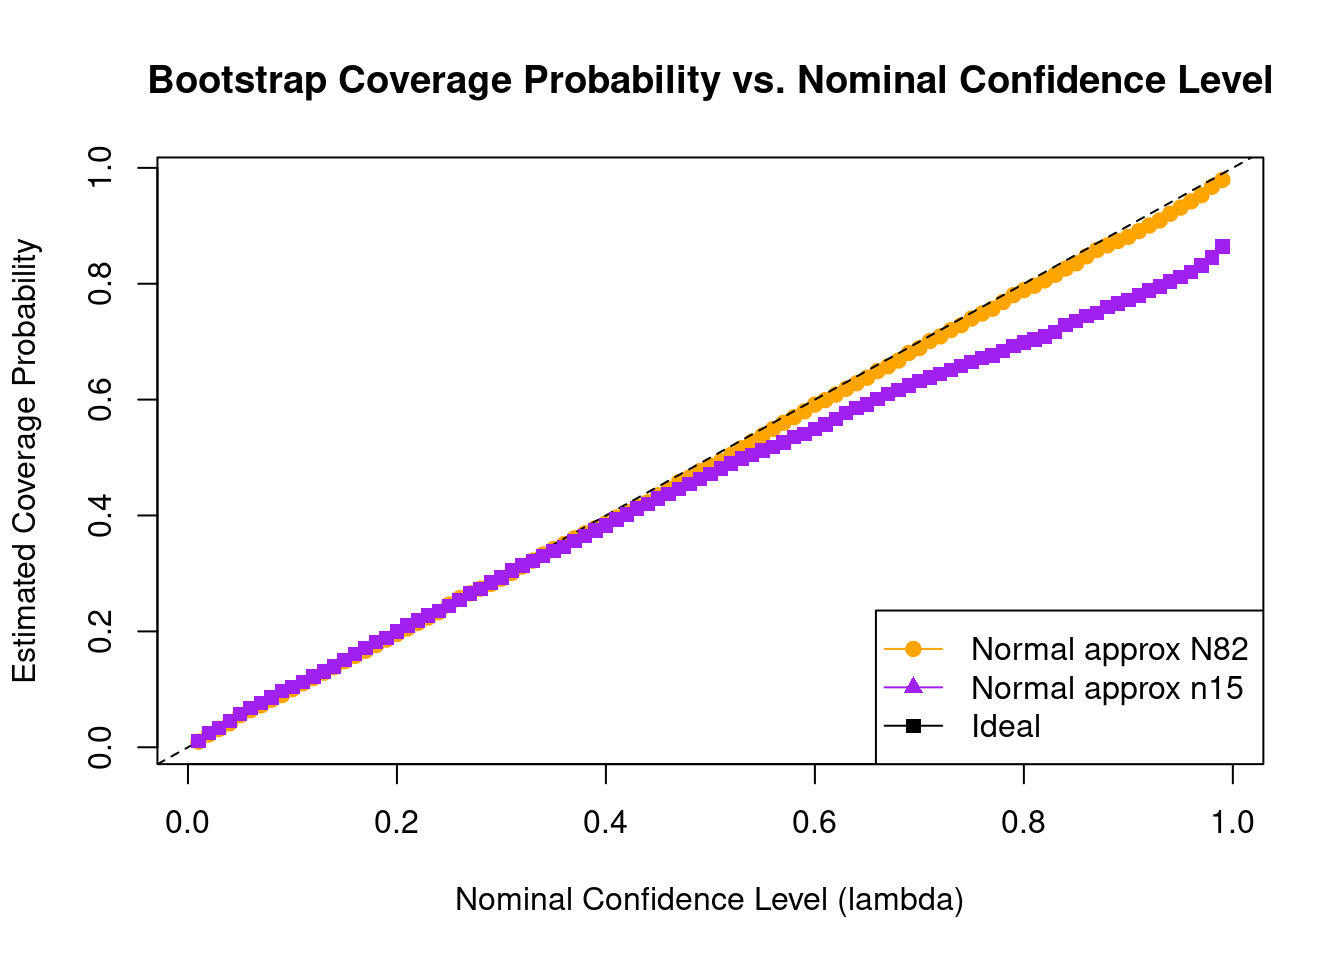
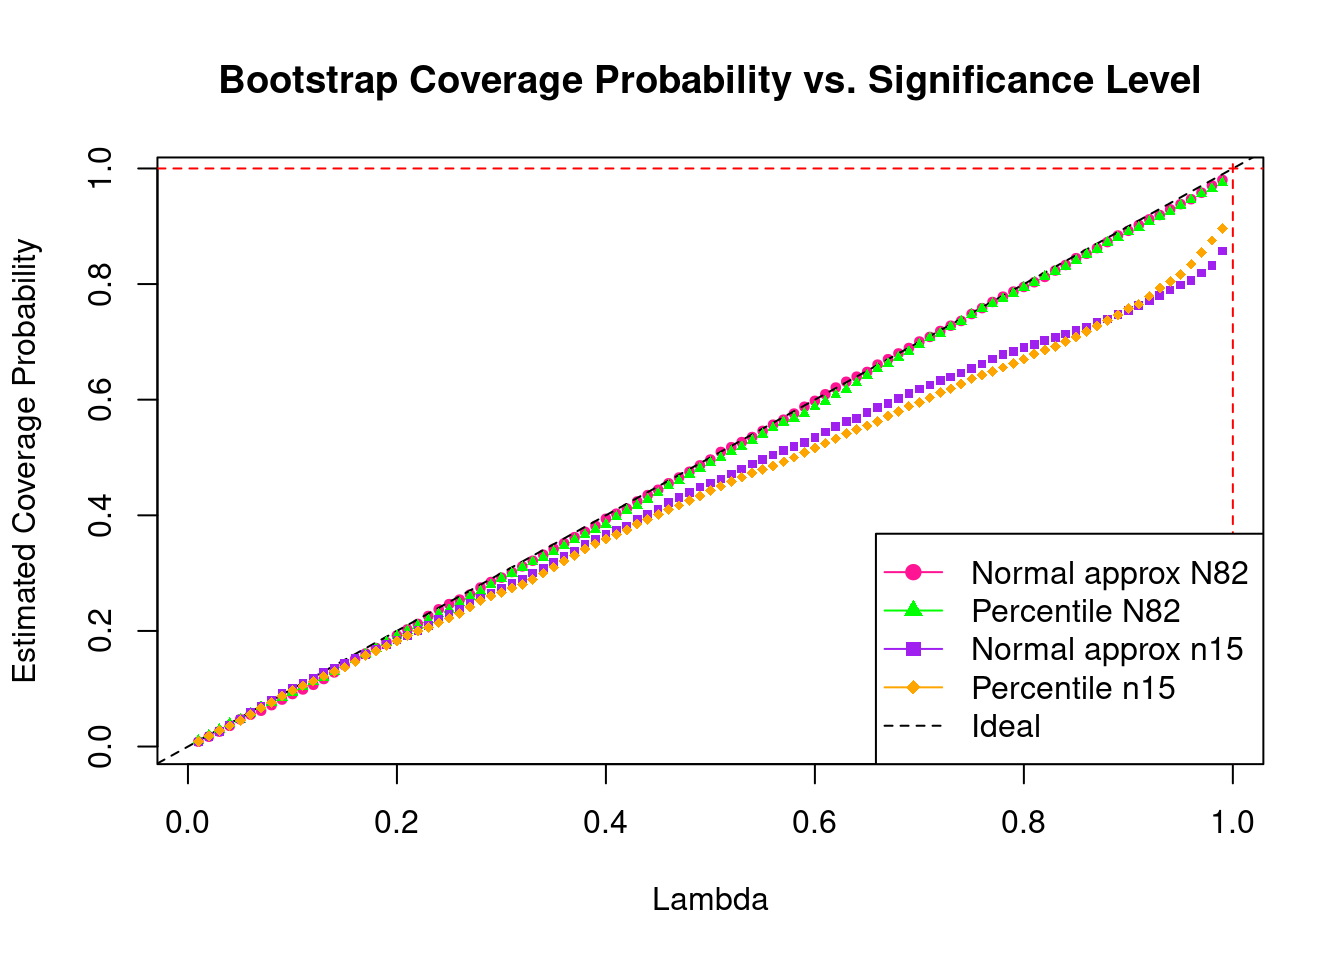
Deploy new Quarto site

diff --git a/docs/initial_notes.html b/docs/initial_notes.html
@@ -887,13 +887,13 @@ Copyright M. P. Wand 1997-2009</code></pre>
 <span id="cb43-43"><a href="#cb43-43" aria-hidden="true" tabindex="-1"></a>  upper_lambda <span class="ot">&lt;-</span> b1_correl[b1] <span class="sc">+</span> <span class="fu">qnorm</span>(<span class="dv">1</span> <span class="sc">-</span> lambdas <span class="sc">/</span> <span class="dv">2</span>) <span class="sc">*</span> se_b2</span>
 <span id="cb43-44"><a href="#cb43-44" aria-hidden="true" tabindex="-1"></a>  b1_lambda[b1, ] <span class="ot">&lt;-</span> <span class="fu">as.numeric</span>(sample_correl <span class="sc">&gt;=</span> lower_lambda <span class="sc">&amp;</span> sample_correl <span class="sc">&lt;=</span> upper_lambda)</span>
 <span id="cb43-45"><a href="#cb43-45" aria-hidden="true" tabindex="-1"></a></span>
-<span id="cb43-46"><a href="#cb43-46" aria-hidden="true" tabindex="-1"></a>  <span class="co"># lower_percentile &lt;- quantile(b2_correl, probs = lambdas / 2)</span></span>
-<span id="cb43-47"><a href="#cb43-47" aria-hidden="true" tabindex="-1"></a>  <span class="co"># upper_percentile &lt;- quantile(b2_correl, probs = 1 - lambdas / 2)</span></span>
-<span id="cb43-48"><a href="#cb43-48" aria-hidden="true" tabindex="-1"></a>  <span class="co"># b1_percentile[b1, ] &lt;- as.numeric(sample_correl &gt;= lower_percentile &amp; sample_correl &lt;= upper_percentile)</span></span>
+<span id="cb43-46"><a href="#cb43-46" aria-hidden="true" tabindex="-1"></a>  lower_percentile <span class="ot">&lt;-</span> <span class="fu">quantile</span>(b2_correl, <span class="at">probs =</span> lambdas <span class="sc">/</span> <span class="dv">2</span>)</span>
+<span id="cb43-47"><a href="#cb43-47" aria-hidden="true" tabindex="-1"></a>  upper_percentile <span class="ot">&lt;-</span> <span class="fu">quantile</span>(b2_correl, <span class="at">probs =</span> <span class="dv">1</span> <span class="sc">-</span> lambdas <span class="sc">/</span> <span class="dv">2</span>)</span>
+<span id="cb43-48"><a href="#cb43-48" aria-hidden="true" tabindex="-1"></a>  b1_percentile[b1, ] <span class="ot">&lt;-</span> <span class="fu">as.numeric</span>(sample_correl <span class="sc">&gt;=</span> lower_percentile <span class="sc">&amp;</span> sample_correl <span class="sc">&lt;=</span> upper_percentile)</span>
 <span id="cb43-49"><a href="#cb43-49" aria-hidden="true" tabindex="-1"></a>}</span>
-<span id="cb43-50"><a href="#cb43-50" aria-hidden="true" tabindex="-1"></a>lower_percentile2 <span class="ot">&lt;-</span> <span class="fu">quantile</span>(b1_correl, <span class="at">probs =</span> lambdas <span class="sc">/</span> <span class="dv">2</span>)</span>
-<span id="cb43-51"><a href="#cb43-51" aria-hidden="true" tabindex="-1"></a>upper_percentile2 <span class="ot">&lt;-</span> <span class="fu">quantile</span>(b1_correl, <span class="at">probs =</span> <span class="dv">1</span> <span class="sc">-</span> lambdas <span class="sc">/</span> <span class="dv">2</span>)</span>
-<span id="cb43-52"><a href="#cb43-52" aria-hidden="true" tabindex="-1"></a>b1_percentile[b1, ] <span class="ot">&lt;-</span> <span class="fu">as.numeric</span>(sample_correl <span class="sc">&gt;=</span> lower_percentile2 <span class="sc">&amp;</span> sample_correl <span class="sc">&lt;=</span> upper_percentile2)</span></code><button title="Copy to Clipboard" class="code-copy-button"><i class="bi"></i></button></pre></div>
+<span id="cb43-50"><a href="#cb43-50" aria-hidden="true" tabindex="-1"></a><span class="co"># lower_percentile2 &lt;- quantile(b1_correl, probs = lambdas / 2)</span></span>
+<span id="cb43-51"><a href="#cb43-51" aria-hidden="true" tabindex="-1"></a><span class="co"># upper_percentile2 &lt;- quantile(b1_correl, probs = 1 - lambdas / 2)</span></span>
+<span id="cb43-52"><a href="#cb43-52" aria-hidden="true" tabindex="-1"></a><span class="co"># b1_percentile[b1, ] &lt;- as.numeric(sample_correl &gt;= lower_percentile2 &amp; sample_correl &lt;= upper_percentile2)</span></span></code><button title="Copy to Clipboard" class="code-copy-button"><i class="bi"></i></button></pre></div>
 </div>
 <div class="cell">
 <div class="sourceCode cell-code" id="cb44"><pre class="sourceCode r code-with-copy"><code class="sourceCode r"><span id="cb44-1"><a href="#cb44-1" aria-hidden="true" tabindex="-1"></a><span class="co"># lower_percentile2 &lt;- quantile(b1_correl, probs = lambdas / 2)</span></span>
@@ -903,35 +903,37 @@ Copyright M. P. Wand 1997-2009</code></pre>
 <div class="cell">
 <div class="sourceCode cell-code" id="cb45"><pre class="sourceCode r code-with-copy"><code class="sourceCode r"><span id="cb45-1"><a href="#cb45-1" aria-hidden="true" tabindex="-1"></a><span class="co">#normap &lt;-colSums(b1_lambda) / B1</span></span>
 <span id="cb45-2"><a href="#cb45-2" aria-hidden="true" tabindex="-1"></a><span class="co">#percen &lt;- colSums(b1_percentile) / B1</span></span>
-<span id="cb45-3"><a href="#cb45-3" aria-hidden="true" tabindex="-1"></a><span class="co">#save(nominal_levels, normap, file = "bsc.Rdata")</span></span>
+<span id="cb45-3"><a href="#cb45-3" aria-hidden="true" tabindex="-1"></a><span class="co">#save(nominal_levels, normap, percen,file = "bsc.Rdata")</span></span>
 <span id="cb45-4"><a href="#cb45-4" aria-hidden="true" tabindex="-1"></a></span>
 <span id="cb45-5"><a href="#cb45-5" aria-hidden="true" tabindex="-1"></a><span class="fu">load</span>(<span class="st">"bsc.Rdata"</span>)</span>
 <span id="cb45-6"><a href="#cb45-6" aria-hidden="true" tabindex="-1"></a><span class="fu">load</span>(<span class="st">"bsc82.Rdata"</span>)</span></code><button title="Copy to Clipboard" class="code-copy-button"><i class="bi"></i></button></pre></div>
 </div>
 <div class="cell">
 <div class="sourceCode cell-code" id="cb46"><pre class="sourceCode r code-with-copy"><code class="sourceCode r"><span id="cb46-1"><a href="#cb46-1" aria-hidden="true" tabindex="-1"></a><span class="co"># chatgpt generated</span></span>
-<span id="cb46-2"><a href="#cb46-2" aria-hidden="true" tabindex="-1"></a><span class="fu">plot</span>(nominal_levels, normap_82, <span class="at">type =</span> <span class="st">"b"</span>, <span class="at">pch =</span> <span class="dv">19</span>, <span class="at">col =</span> <span class="st">"orange"</span>,</span>
-<span id="cb46-3"><a href="#cb46-3" aria-hidden="true" tabindex="-1"></a>     <span class="at">xlab =</span> <span class="st">"Nominal Confidence Level (lambda)"</span>,</span>
+<span id="cb46-2"><a href="#cb46-2" aria-hidden="true" tabindex="-1"></a><span class="fu">plot</span>(nominal_levels, normap_82, <span class="at">type =</span> <span class="st">"b"</span>, <span class="at">pch =</span> <span class="dv">19</span>, <span class="at">col =</span> <span class="st">"deeppink"</span>, <span class="at">cex =</span> <span class="fl">0.6</span>,</span>
+<span id="cb46-3"><a href="#cb46-3" aria-hidden="true" tabindex="-1"></a>     <span class="at">xlab =</span> <span class="st">"Lambda"</span>,</span>
 <span id="cb46-4"><a href="#cb46-4" aria-hidden="true" tabindex="-1"></a>     <span class="at">ylab =</span> <span class="st">"Estimated Coverage Probability"</span>,</span>
-<span id="cb46-5"><a href="#cb46-5" aria-hidden="true" tabindex="-1"></a>     <span class="at">main =</span> <span class="st">"Bootstrap Coverage Probability vs. Nominal Confidence Level"</span>)</span>
+<span id="cb46-5"><a href="#cb46-5" aria-hidden="true" tabindex="-1"></a>     <span class="at">main =</span> <span class="st">"Bootstrap Coverage Probability vs. Significance Level"</span>)</span>
 <span id="cb46-6"><a href="#cb46-6" aria-hidden="true" tabindex="-1"></a></span>
 <span id="cb46-7"><a href="#cb46-7" aria-hidden="true" tabindex="-1"></a><span class="co"># Add diagonal line y = x</span></span>
 <span id="cb46-8"><a href="#cb46-8" aria-hidden="true" tabindex="-1"></a><span class="fu">abline</span>(<span class="at">a =</span> <span class="dv">0</span>, <span class="at">b =</span> <span class="dv">1</span>, <span class="at">col =</span> <span class="st">"black"</span>, <span class="at">lty =</span> <span class="dv">2</span>)</span>
-<span id="cb46-9"><a href="#cb46-9" aria-hidden="true" tabindex="-1"></a></span>
-<span id="cb46-10"><a href="#cb46-10" aria-hidden="true" tabindex="-1"></a><span class="co"># Add second technique line (percentile)</span></span>
-<span id="cb46-11"><a href="#cb46-11" aria-hidden="true" tabindex="-1"></a><span class="co">#lines(nominal_levels, percen_82, type = "b", pch = 17, col = "green")</span></span>
-<span id="cb46-12"><a href="#cb46-12" aria-hidden="true" tabindex="-1"></a></span>
-<span id="cb46-13"><a href="#cb46-13" aria-hidden="true" tabindex="-1"></a><span class="co"># Add third technique line (repeat normal approx with different style)</span></span>
-<span id="cb46-14"><a href="#cb46-14" aria-hidden="true" tabindex="-1"></a><span class="fu">lines</span>(nominal_levels, normap, <span class="at">type =</span> <span class="st">"b"</span>, <span class="at">pch =</span> <span class="dv">15</span>, <span class="at">col =</span> <span class="st">"purple"</span>)</span>
-<span id="cb46-15"><a href="#cb46-15" aria-hidden="true" tabindex="-1"></a></span>
-<span id="cb46-16"><a href="#cb46-16" aria-hidden="true" tabindex="-1"></a><span class="co"># Add fourth technique line (repeat percentile with different style)</span></span>
-<span id="cb46-17"><a href="#cb46-17" aria-hidden="true" tabindex="-1"></a><span class="co">#lines(nominal_levels, percen, type = "b", pch = 18, col = "orange")</span></span>
-<span id="cb46-18"><a href="#cb46-18" aria-hidden="true" tabindex="-1"></a></span>
-<span id="cb46-19"><a href="#cb46-19" aria-hidden="true" tabindex="-1"></a><span class="co"># Update legend with all four</span></span>
-<span id="cb46-20"><a href="#cb46-20" aria-hidden="true" tabindex="-1"></a><span class="fu">legend</span>(<span class="st">"bottomright"</span>, <span class="at">legend =</span> <span class="fu">c</span>(<span class="st">"Normal approx N82"</span>, <span class="st">"Normal approx n15"</span>, <span class="st">"Ideal"</span>),</span>
-<span id="cb46-21"><a href="#cb46-21" aria-hidden="true" tabindex="-1"></a>       <span class="at">col =</span> <span class="fu">c</span>(<span class="st">"orange"</span>, <span class="st">"purple"</span>, <span class="st">"black"</span>),</span>
-<span id="cb46-22"><a href="#cb46-22" aria-hidden="true" tabindex="-1"></a>       <span class="at">pch =</span> <span class="fu">c</span>(<span class="dv">19</span>, <span class="dv">17</span>, <span class="dv">15</span>, <span class="dv">18</span>, <span class="cn">NA</span>),</span>
-<span id="cb46-23"><a href="#cb46-23" aria-hidden="true" tabindex="-1"></a>       <span class="at">lty =</span> <span class="fu">c</span>(<span class="dv">1</span>, <span class="dv">1</span>, <span class="dv">1</span>, <span class="dv">1</span>, <span class="dv">2</span>))</span></code><button title="Copy to Clipboard" class="code-copy-button"><i class="bi"></i></button></pre></div>
+<span id="cb46-9"><a href="#cb46-9" aria-hidden="true" tabindex="-1"></a><span class="fu">abline</span>(<span class="at">v =</span> <span class="dv">1</span>, <span class="at">col =</span> <span class="st">"red"</span>, <span class="at">lty =</span> <span class="dv">2</span>)</span>
+<span id="cb46-10"><a href="#cb46-10" aria-hidden="true" tabindex="-1"></a><span class="fu">abline</span>(<span class="at">h =</span> <span class="dv">1</span>, <span class="at">col =</span> <span class="st">"red"</span>, <span class="at">lty =</span> <span class="dv">2</span>)</span>
+<span id="cb46-11"><a href="#cb46-11" aria-hidden="true" tabindex="-1"></a></span>
+<span id="cb46-12"><a href="#cb46-12" aria-hidden="true" tabindex="-1"></a><span class="co"># Add second technique line (percentile)</span></span>
+<span id="cb46-13"><a href="#cb46-13" aria-hidden="true" tabindex="-1"></a><span class="fu">lines</span>(nominal_levels, percen_82, <span class="at">type =</span> <span class="st">"b"</span>, <span class="at">pch =</span> <span class="dv">17</span>, <span class="at">col =</span> <span class="st">"green"</span>, <span class="at">cex =</span> <span class="fl">0.6</span>)</span>
+<span id="cb46-14"><a href="#cb46-14" aria-hidden="true" tabindex="-1"></a></span>
+<span id="cb46-15"><a href="#cb46-15" aria-hidden="true" tabindex="-1"></a><span class="co"># Add third technique line (repeat normal approx with different style)</span></span>
+<span id="cb46-16"><a href="#cb46-16" aria-hidden="true" tabindex="-1"></a><span class="fu">lines</span>(nominal_levels, normap, <span class="at">type =</span> <span class="st">"b"</span>, <span class="at">pch =</span> <span class="dv">15</span>, <span class="at">col =</span> <span class="st">"purple"</span>, <span class="at">cex =</span> <span class="fl">0.6</span>)</span>
+<span id="cb46-17"><a href="#cb46-17" aria-hidden="true" tabindex="-1"></a></span>
+<span id="cb46-18"><a href="#cb46-18" aria-hidden="true" tabindex="-1"></a><span class="co"># Add fourth technique line (repeat percentile with different style)</span></span>
+<span id="cb46-19"><a href="#cb46-19" aria-hidden="true" tabindex="-1"></a><span class="fu">lines</span>(nominal_levels, percen, <span class="at">type =</span> <span class="st">"b"</span>, <span class="at">pch =</span> <span class="dv">18</span>, <span class="at">col =</span> <span class="st">"orange"</span>, <span class="at">cex =</span> <span class="fl">0.75</span>)</span>
+<span id="cb46-20"><a href="#cb46-20" aria-hidden="true" tabindex="-1"></a></span>
+<span id="cb46-21"><a href="#cb46-21" aria-hidden="true" tabindex="-1"></a><span class="co"># Update legend with all four</span></span>
+<span id="cb46-22"><a href="#cb46-22" aria-hidden="true" tabindex="-1"></a><span class="fu">legend</span>(<span class="st">"bottomright"</span>, <span class="at">legend =</span> <span class="fu">c</span>(<span class="st">"Normal approx N82"</span>, <span class="st">"Percentile N82"</span>, <span class="st">"Normal approx n15"</span>, <span class="st">"Percentile n15"</span>, <span class="st">"Ideal"</span>),</span>
+<span id="cb46-23"><a href="#cb46-23" aria-hidden="true" tabindex="-1"></a>       <span class="at">col =</span> <span class="fu">c</span>(<span class="st">"deeppink"</span>,<span class="st">"green"</span>, <span class="st">"purple"</span>, <span class="st">"orange"</span>,<span class="st">"black"</span>),</span>
+<span id="cb46-24"><a href="#cb46-24" aria-hidden="true" tabindex="-1"></a>       <span class="at">pch =</span> <span class="fu">c</span>(<span class="dv">19</span>, <span class="dv">17</span>, <span class="dv">15</span>,<span class="dv">18</span>,<span class="cn">NA</span>),</span>
+<span id="cb46-25"><a href="#cb46-25" aria-hidden="true" tabindex="-1"></a>       <span class="at">lty =</span> <span class="fu">c</span>(<span class="dv">1</span>, <span class="dv">1</span>, <span class="dv">1</span>, <span class="dv">1</span>,<span class="dv">2</span>))</span></code><button title="Copy to Clipboard" class="code-copy-button"><i class="bi"></i></button></pre></div>
 <div class="cell-output-display">
 <div>
 <figure class="figure">
@@ -1265,19 +1267,19 @@ Attaching package: 'MASS'</code></pre>
 <pre><code>$Fhat_X1
 function (x) 
 mean(pnorm((x - datapoints)/bandwidth))
-&lt;environment: 0x55781b943840&gt;
+&lt;environment: 0x564b003eb118&gt;
 
 $Fhat_X2
 function (x) 
 mean(pnorm((x - datapoints)/bandwidth))
-&lt;bytecode: 0x557819eae390&gt;
-&lt;environment: 0x55781b76ec38&gt;
+&lt;bytecode: 0x564affe83258&gt;
+&lt;environment: 0x564b002418b0&gt;
 
 $Fhat_X3
 function (x) 
 mean(pnorm((x - datapoints)/bandwidth))
-&lt;bytecode: 0x557819eae390&gt;
-&lt;environment: 0x557819eaae48&gt;</code></pre>
+&lt;bytecode: 0x564affe83258&gt;
+&lt;environment: 0x564affe7f178&gt;</code></pre>
 </div>
 </div>
 <ol start="3" type="1">
